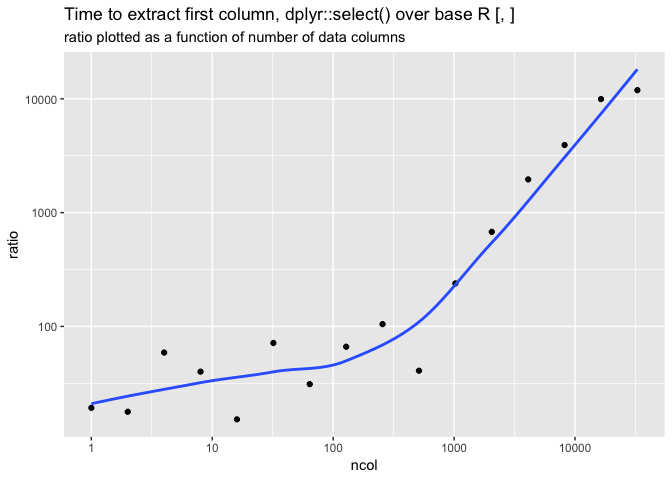
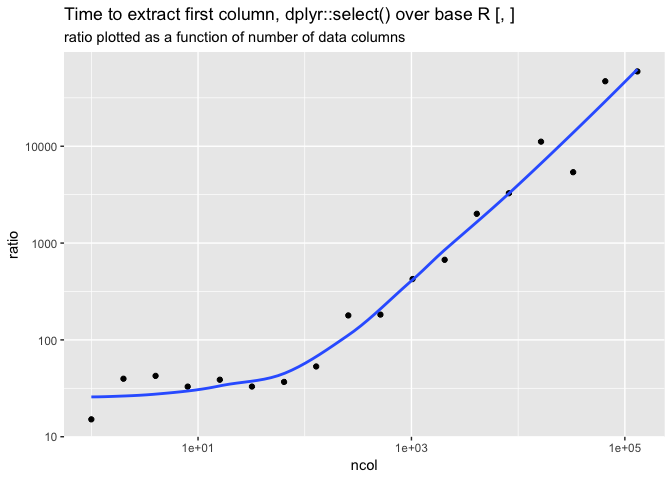
longer run

diff --git a/dplyr/select_timing.md b/dplyr/select_timing.md
@@ -78,7 +78,7 @@ f <- function(k) {
 }
 
 
-times <- lapply(2^(0:15), f)
+times <- lapply(2^(0:17), f)
 times <- data.frame(data.table::rbindlist(times))
 times$seconds <- times$time/1e9
 
